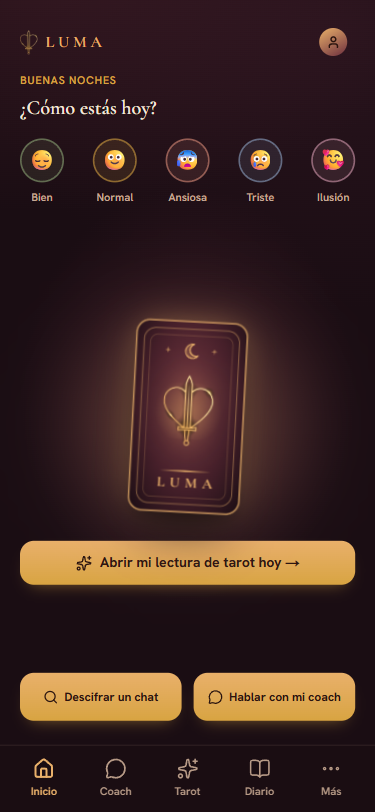
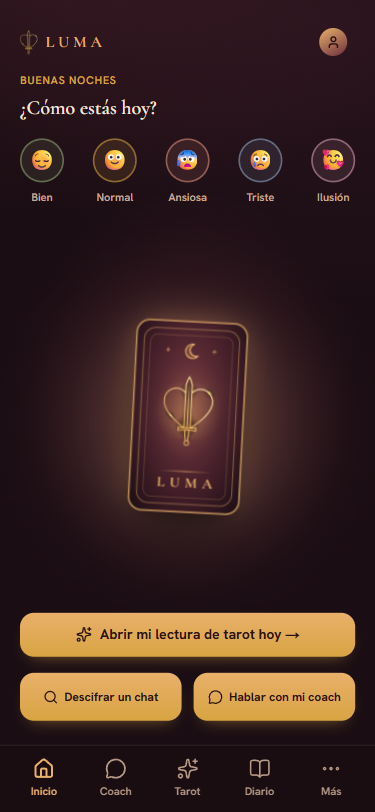
style(inicio): el botón de lectura baja junto a las cajitas y la carta se centra en el espacio libre

Changed region(s): [[0.0293, 0.6466, 0.968, 0.8313], [0.528, 0.4618, 0.5573, 0.4926]]

diff --git a/app/app/(tabs)/page.tsx b/app/app/(tabs)/page.tsx
@@ -117,7 +117,7 @@ export default function InicioPage() {
         initial={{ opacity: 0, y: 8 }}
         animate={{ opacity: 1, y: 0 }}
         transition={{ duration: 0.3, ease: [0.16, 1, 0.3, 1] }}
-        className="flex min-h-0 flex-1 flex-col justify-between gap-8 [@media(min-height:721px)_and_(max-height:840px)]:gap-4 [@media(min-height:621px)_and_(max-height:720px)]:gap-3 [@media(max-height:620px)]:gap-2"
+        className="flex min-h-0 flex-1 flex-col gap-8 [@media(min-height:721px)_and_(max-height:840px)]:gap-4 [@media(min-height:621px)_and_(max-height:720px)]:gap-3 [@media(max-height:620px)]:gap-2"
       >
         <div>
           <div className="flex items-center justify-between">
@@ -172,8 +172,8 @@ export default function InicioPage() {
           )}
         </div>
 
-        <div className="flex flex-col items-center gap-2">
-          <Link href="/app/tarot">
+        <div className="flex min-h-0 flex-1 flex-col items-center gap-2">
+          <Link href="/app/tarot" className="flex min-h-0 flex-1 items-center justify-center">
             <CartaGirando />
           </Link>
           <Link

diff --git a/ESTADO.md b/ESTADO.md
@@ -1071,3 +1071,5 @@ sabemos / qué observamos / posible riesgo / pregunta para ti / qué podrías re
 🔄 2026-10-15: Inicio — la carta del día pasa a ser un gesto simbólico: aparece boca abajo (reverso del mazo), se da la vuelta sola y queda descubierta, sin texto ni significado ni necesidad de tocarla (components/app/CartaGirando.tsx). Con "reducir movimiento" se ve ya descubierta. Imagen carta-giro-tres-momentos. Sin publicar.
 
 🔄 2026-10-15: Inicio — la carta pasa a ser LA CARTA DE LUMA (propia, siempre la misma: luna, estrellas, emblema y la palabra LUMA): boca abajo, se da la vuelta sola y queda descubierta, sin texto ni función. Ya no usa la carta del día (no cambia la Carta del día de Tarot). Capturas carta-luma-tres-momentos e inicio-carta-luma-375. Sin publicar.
+
+🔄 2026-10-15: Inicio — el botón "Abrir mi lectura de tarot hoy" baja y queda pegado a las dos cajitas de abajo; la carta de LUMA se centra en el espacio libre. Captura inicio-carta-luma-375. Sin publicar.
